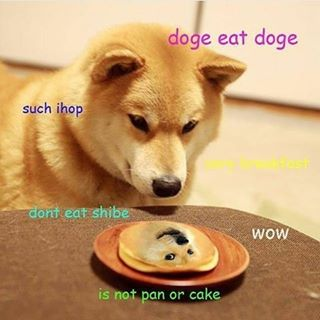
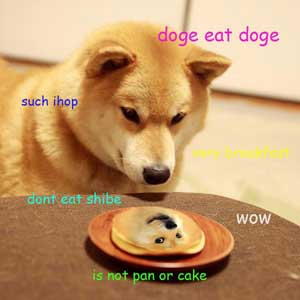
editing pncake doge img

diff --git a/index.html b/index.html
@@ -61,7 +61,7 @@
 			</bl1>
 			</td>
 			<td>
-			<a href="http://allrecipes.com/recipe/21014/good-old-fashioned-pancakes/"><img src="/imagefiles/pancakedoge.jpg" width="320" height="320" alt="Doge looking at pancake doge."></a>
+			<a href="http://allrecipes.com/recipe/21014/good-old-fashioned-pancakes/"><img src="/imagefiles/pancakedoge.jpg" width="300" height="300" alt="Doge looking at pancake doge."></a>
 			<p>Click on image for recipe page.</p>
 			</td>
 		</tr>
